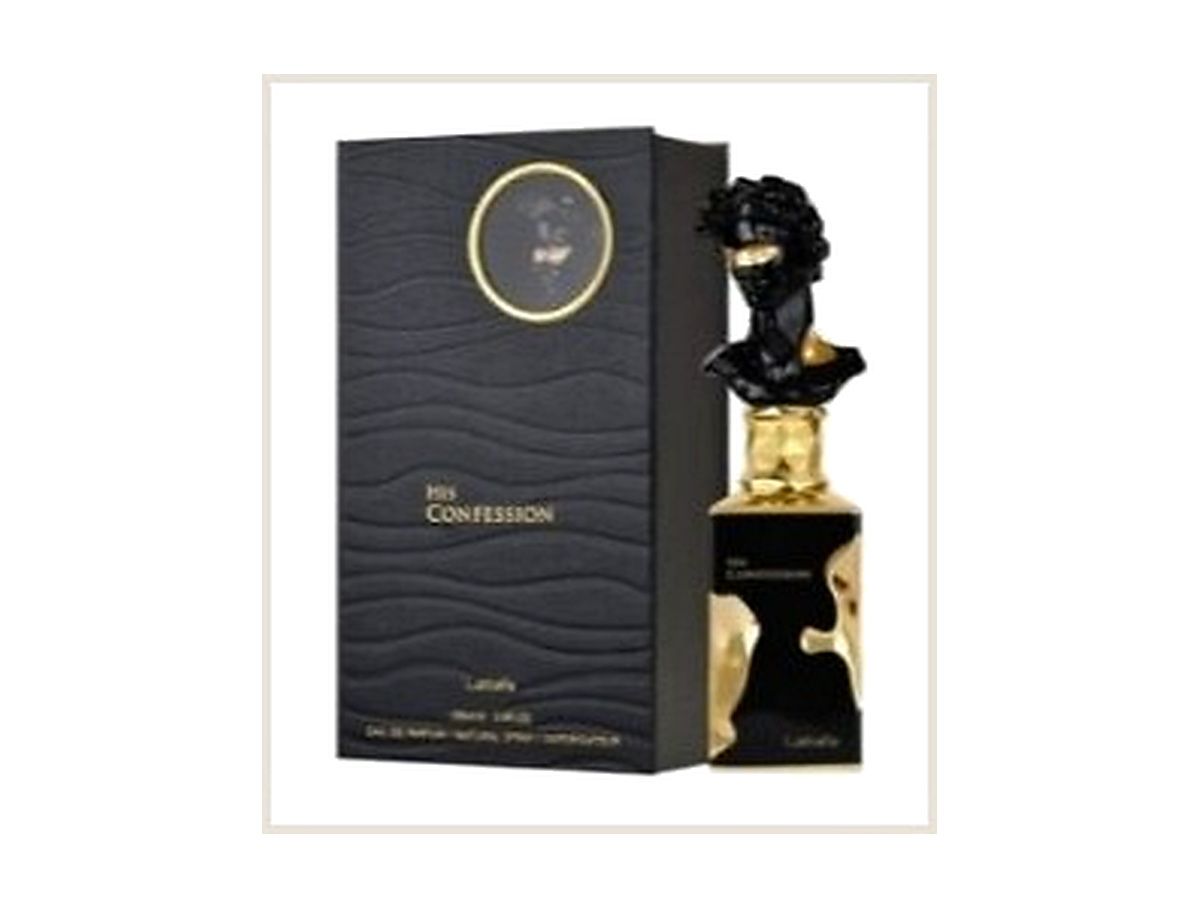
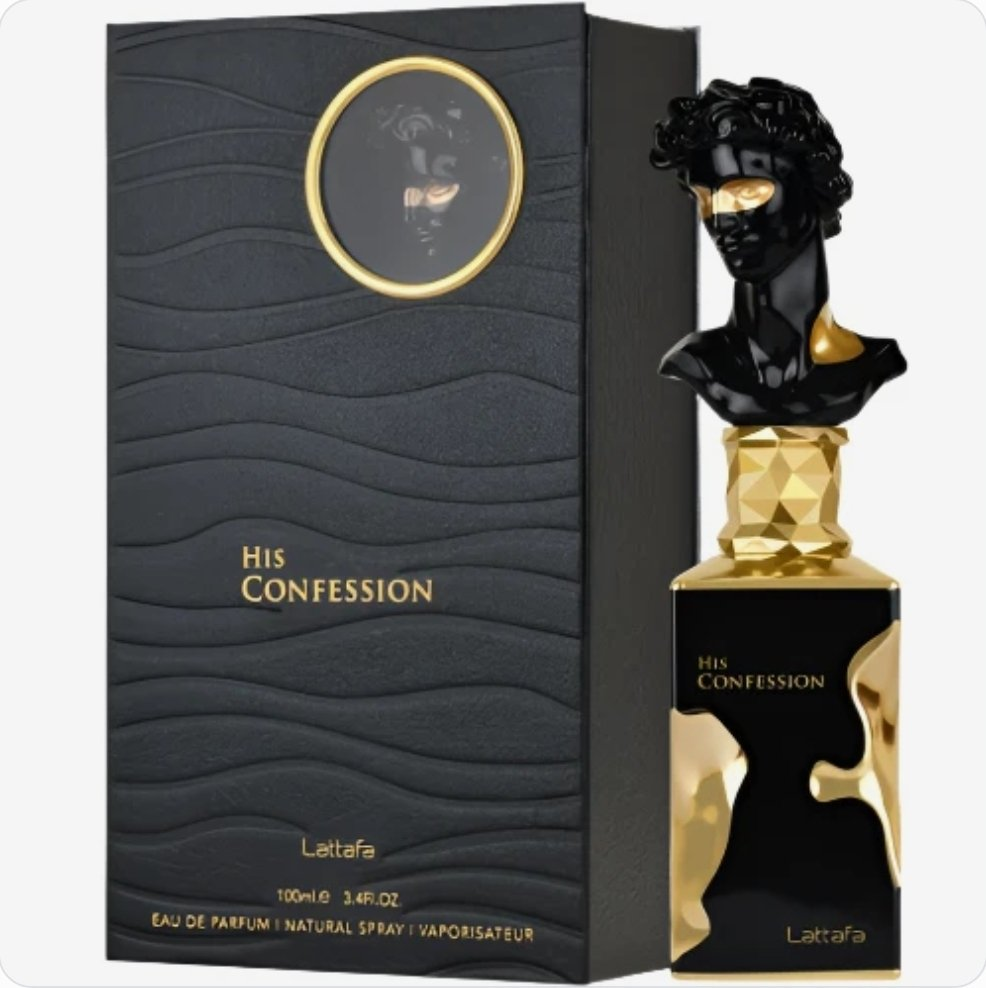
Replace Lattafa His Confession photos with Boss's new shots

diff --git a/index.html b/index.html
@@ -713,7 +713,7 @@
         { name:'Rasasi Hawas Ice Cologne for Men', niche:'Rasasi · Men · 3.38 oz EDP', direction:'Icy citrus, fruit and amber woods', description:'Cool citrus and juicy fruit create an energetic opening, followed by aromatic warmth and smooth amber woods. Fresh, modern and made to project.', category:'fresh', images:[{src:'assets/product-rasasi-hawas-ice.jpg', alt:'Rasasi Hawas Ice blue bottle and box — clean packshot'}], price:55, decantPrice:14, originalPrice:68, featured:22 , paymentLink:'https://buy.stripe.com/4gMfZjdvb7o08K68ODf7i13'},
         { name:'Yves Saint Laurent Myslf Cologne for Men', niche:'Yves Saint Laurent · Men · 3.4 oz EDP', direction:'Bright citrus, orange blossom and woods', description:'Sparkling citrus meets a clean orange-blossom heart and a warm woody finish. Polished and versatile, with a contemporary dressed-up feel.', category:'fresh', images:[{src:'assets/product-ysl-myslf.jpg', alt:'Yves Saint Laurent Myslf black bottle and box — clean packshot'},{src:'assets/gallery-ysl-myslf-1.jpg', alt:'Yves Saint Laurent Myslf Cologne for Men — customer photo 1'},{src:'assets/gallery-ysl-myslf-2.jpg', alt:'Yves Saint Laurent Myslf Cologne for Men — customer photo 2'},{src:'assets/gallery-ysl-myslf-3.jpg', alt:'Yves Saint Laurent Myslf Cologne for Men — customer photo 3'}], price:125, decantPrice:31, originalPrice:145, featured:23 , paymentLink:'https://buy.stripe.com/fZu7sNfDj8s49Oa3ujf7i0R'},
         { name:'Versace Eros Flame Cologne for Men', niche:'Versace · Men · 3.4 oz EDP', direction:'Spiced citrus, herbs and vanilla woods', description:'Vibrant citrus and pepper lead into aromatic herbs, warm woods and vanilla. Fiery and confident, with a bold evening-ready trail.', category:'amber', images:[{src:'assets/product-versace-eros-flame.jpg', alt:'Versace Eros Flame red bottle and box — clean packshot'},{src:'assets/gallery-versace-eros-flame-1.jpg', alt:'Versace Eros Flame Cologne for Men — customer photo 1'},{src:'assets/gallery-versace-eros-flame-2.jpg', alt:'Versace Eros Flame Cologne for Men — customer photo 2'},{src:'assets/gallery-versace-eros-flame-3.jpg', alt:'Versace Eros Flame Cologne for Men — customer photo 3'},{src:'assets/gallery-versace-eros-flame-4.jpg', alt:'Versace Eros Flame Cologne for Men — customer photo 4'}], price:79, decantPrice:20, originalPrice:95, featured:24 , paymentLink:'https://buy.stripe.com/28E5kFbn30ZC3pMc0Pf7i0S'},
-        { name:'Lattafa His Confession Cologne for Men', niche:'Lattafa · Men · 3.4 oz EDP', direction:'Warm spice, iris and amber woods', description:'A smooth blend of warm spice and powdery iris deepens into amber, vanilla and woods. Rich and composed, with a softly mysterious finish.', category:'amber', images:[{src:'assets/product-lattafa-his-confession.jpg', alt:'Lattafa His Confession black and gold bottle and box — clean packshot'}], price:36, decantPrice:9, originalPrice:44, featured:25 , paymentLink:'https://buy.stripe.com/dRmcN7bn337KbWifd1f7i0Q'},
+        { name:'Lattafa His Confession Cologne for Men', niche:'Lattafa · Men · 3.4 oz EDP', direction:'Warm spice, iris and amber woods', description:'A smooth blend of warm spice and powdery iris deepens into amber, vanilla and woods. Rich and composed, with a softly mysterious finish.', category:'amber', images:[{src:'assets/product-lattafa-his-confession.jpg', alt:'Lattafa His Confession bust bottle and black box on a clean white background'},{src:'assets/product-lattafa-his-confession-2.jpg', alt:'Lattafa His Confession bust bottle on a clean white background'}], price:36, decantPrice:9, originalPrice:44, featured:25 , paymentLink:'https://buy.stripe.com/dRmcN7bn337KbWifd1f7i0Q'},
         { name:'Al Haramain Amber Oud Ruby Perfume for Women', niche:'Al Haramain · Women · 3.4 oz EDP', direction:'Saffron, amberwood and warm musk', description:'Radiant saffron and warm amberwood meet a smooth musky base. Bold and polished, with a rich sweetness that lingers.', category:'amber', images:[{src:'assets/product-al-haramain-amber-oud-ruby.jpg', alt:'Al Haramain Amber Oud Ruby bottle front on a clean white background'},{src:'assets/product-al-haramain-amber-oud-ruby-2.jpg', alt:'Al Haramain Amber Oud Ruby bottle and box on a clean white background'}], price:59, decantPrice:15, originalPrice:72, featured:26 , paymentLink:'https://buy.stripe.com/aFacN776NcIkgcy3ujf7i0P'},
         { name:'Yves Saint Laurent Libre Perfume for Women', niche:'Yves Saint Laurent · Women · 3.0 oz EDP', direction:'Lavender, orange blossom and vanilla', description:'Aromatic lavender contrasts with luminous orange blossom before settling into warm vanilla. Confident, elegant and distinctly modern.', category:'amber', images:[{src:'assets/product-ysl-libre.jpg', alt:'Yves Saint Laurent Libre bottle and box — clean packshot'},{src:'assets/gallery-ysl-libre-1.jpg', alt:'Yves Saint Laurent Libre Perfume for Women — customer photo 1'}], price:125, decantPrice:31, originalPrice:145, featured:27 , paymentLink:'https://buy.stripe.com/7sY4gB9eV4bO0dAgh5f7i0N'},
         { name:'Carolina Herrera Good Girl Perfume for Women', niche:'Carolina Herrera · Women · 2.7 oz EDP', direction:'White florals, cacao and tonka', description:'Lush white florals meet a darker base of cacao, tonka and warm woods. Glamorous and dramatic, with a sweet evening character.', category:'sweet', images:[{src:'assets/product-carolina-herrera-good-girl.jpg', alt:'Carolina Herrera Good Girl stiletto bottle and box on a clean white background'},{src:'assets/product-carolina-herrera-good-girl-2.jpg', alt:'Carolina Herrera Good Girl stiletto bottle, angled view'},{src:'assets/product-carolina-herrera-good-girl-3.jpg', alt:'Carolina Herrera Good Girl stiletto bottle, side view'}], price:105, decantPrice:26, originalPrice:125, featured:28 , paymentLink:'https://buy.stripe.com/7sY28tgHn5fSf8u0i7f7i0O'},
